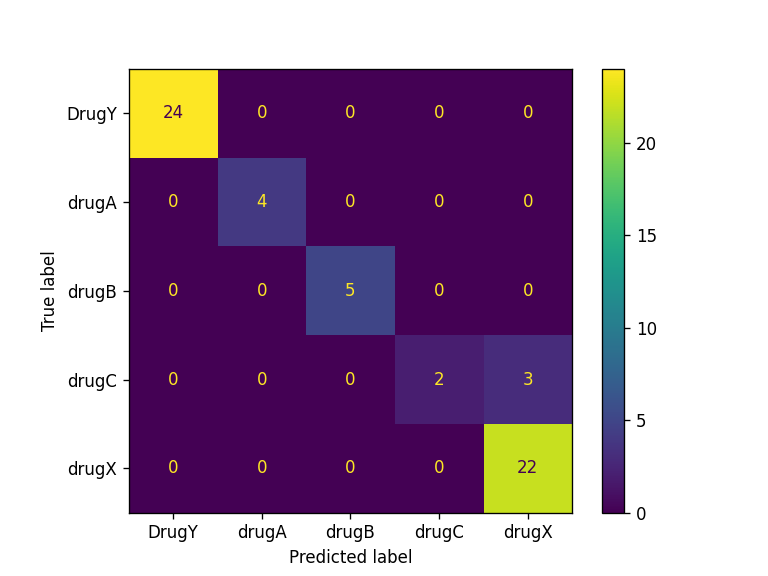
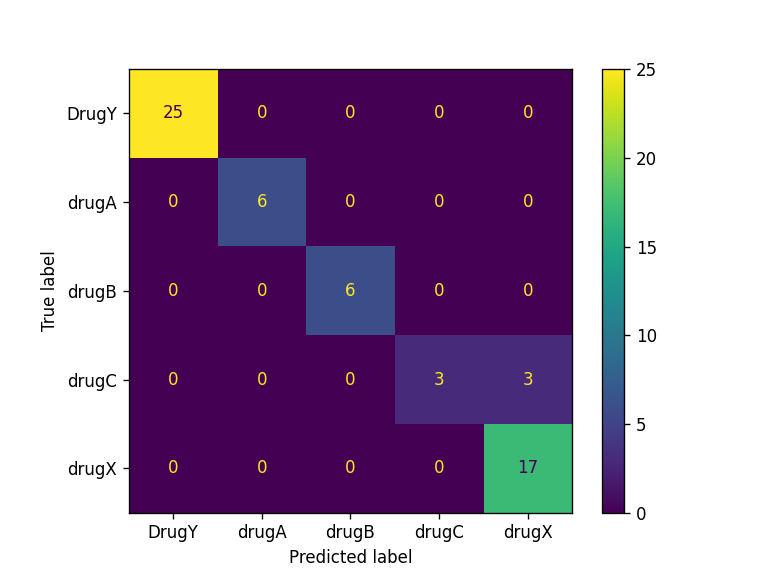
Update: evaluation results

diff --git a/report.md b/report.md
@@ -1,5 +1,5 @@
 ## Model Metrics
 
-Accuracy = 0.95, F1 Score = 0.9.
+Accuracy = 0.95, F1 Score = 0.92.
 ## Confusion Matrix Plot
 ![Confusion Matrix](./Results/model_results.png)
